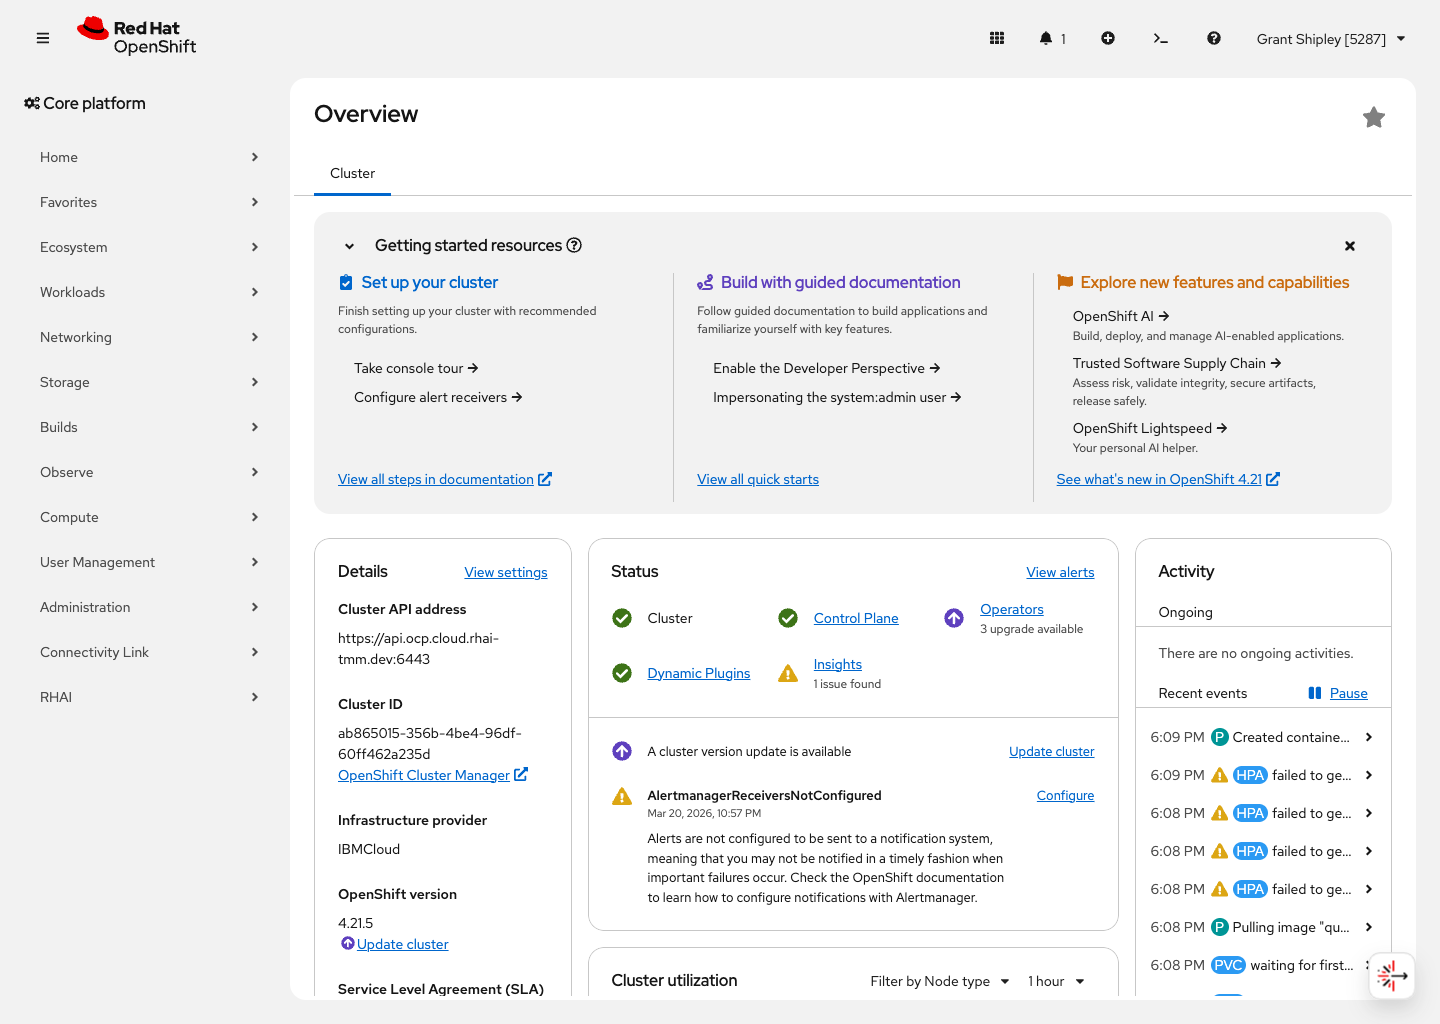
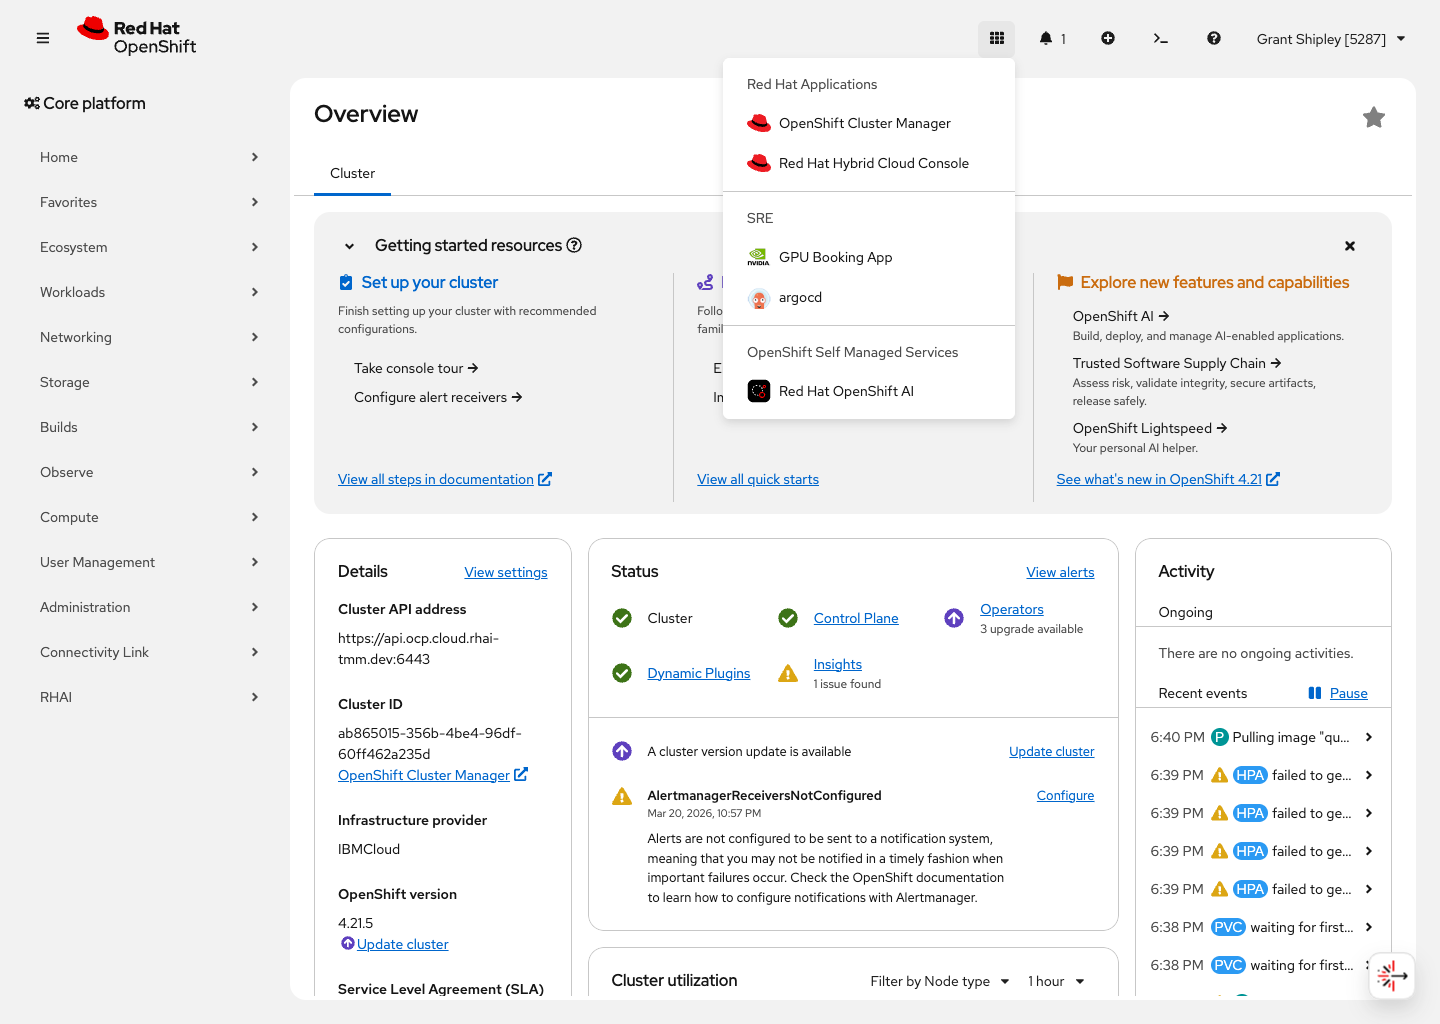
Fix OpenShift AI navigation: use Application launcher instead of left nav
Update step 1 to instruct users to click the Application launcher
(grid icon) in the top bar and find Red Hat OpenShift AI under
OpenShift Self Managed Services. Recaptured screenshot with the
launcher menu open.

diff --git a/claude-deploy-model/workshop.md b/claude-deploy-model/workshop.md
@@ -80,15 +80,17 @@ Before you can deploy a model, you need to know how to reach the OpenShift AI da
 
 Open the OpenShift console at `https://console-openshift-console.apps.ocp.cloud.rhai-tmm.dev/`. If you are prompted to log in, complete the authentication flow for your environment.
 
-Once you are on the console landing page, look at the left-hand navigation panel. Depending on your cluster configuration, you will see an entry for **Red Hat OpenShift AI** in the navigation. This is the link that takes you from the general-purpose OpenShift console into the dedicated AI dashboard.
+Once you are on the console landing page, look at the top navigation bar. In the upper-right area, you will see a row of icons. The first icon is the **Application launcher** — it looks like a grid of nine squares (sometimes called the "waffle" icon). Click it to open the application menu.
 
-Click the **Red Hat OpenShift AI** link. This opens the OpenShift AI dashboard in the same browser window (or in a new tab, depending on your cluster configuration).
+The application launcher menu is organized into sections. Scroll down until you see the **OpenShift Self Managed Services** section. Under that heading, click **Red Hat OpenShift AI**. This opens the OpenShift AI dashboard in a new browser tab.
 
-Why start here? In a real environment, you may not always have the dashboard URL bookmarked. Knowing how to find OpenShift AI from the main console is a practical skill that will save you time, especially when you are working in a new cluster or helping a colleague get started.
+The application launcher is the standard way to reach OpenShift AI from the console. It is always available in the top bar regardless of which console page you are on, which makes it the most reliable navigation path. In some cluster configurations, you may also see OpenShift AI in the left-hand navigation panel, but the application launcher works in all environments.
 
-![OpenShift console with OpenShift AI navigation entry](assets/screenshots/01-console-openshift-ai-entry.png)
+Why start here? In a real environment, you may not always have the dashboard URL bookmarked. Knowing how to find OpenShift AI from the application launcher is a practical skill that will save you time, especially when you are working in a new cluster or helping a colleague get started.
 
-Expected result: you can see the OpenShift console and identify the navigation entry for Red Hat OpenShift AI.
+![OpenShift console with Application launcher showing Red Hat OpenShift AI](assets/screenshots/01-console-openshift-ai-entry.png)
+
+Expected result: you can see the Application launcher menu with **Red Hat OpenShift AI** listed under **OpenShift Self Managed Services**.
 
 ### 2. Orient yourself on the OpenShift AI dashboard (3 minutes)
 
